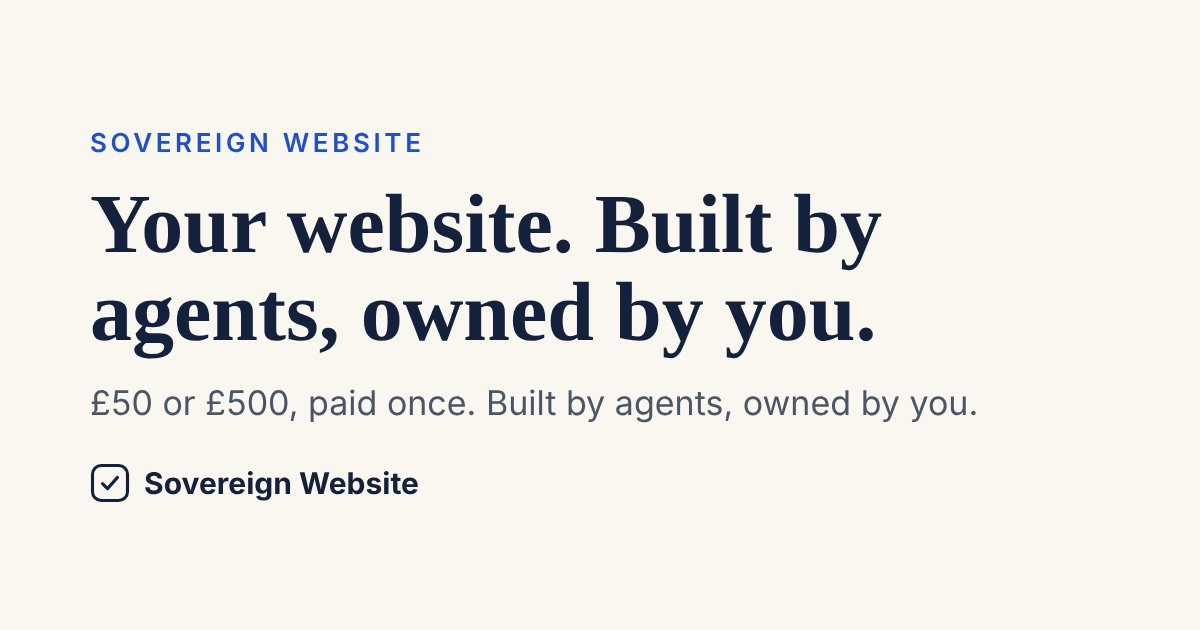
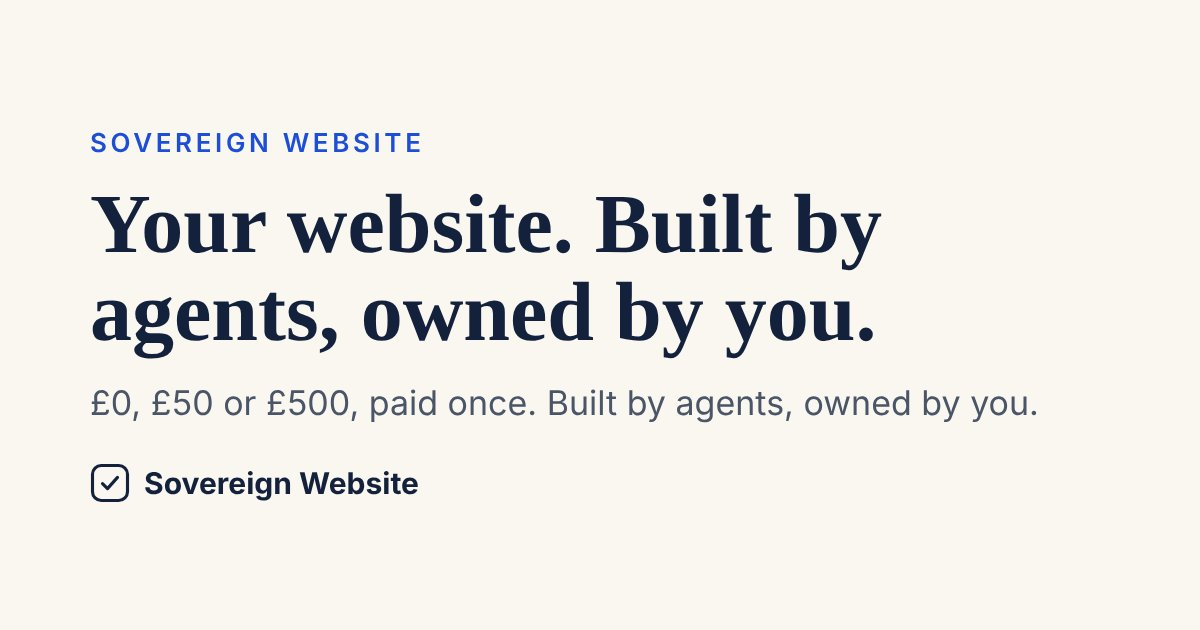
Share cards: the site card says £0, £50 or £500; the ABP kit gets its own card; the home pages get share tags
Dinis, 25 Nov: fix the ABP banner (it showed the site's card) and the site's banner should say £0, £50 or £500. New abp/og-abp.png (Agent Behaviour Policy: a starter kit for agents that keep themselves in bounds; six files, free to download), used by /abp/ and /abp/kit/. The site card regenerated. index.html and pt/index.html had no share tags; added. Keeper note: IaC PR 5 cannot be merged, passed to a.maestro. tools/check.sh: 42 pages, 0 failures.

Agent: website.a@SovereignWebsite.dinis
Claude-Session: https://claude.ai/code/session_018yvwtP1YZi2CGTZUdSyE8q

Changed region(s): [[0.0925, 0.6032, 0.8633, 0.6635]]

diff --git a/site/pt/index.html b/site/pt/index.html
@@ -7,6 +7,20 @@
 <meta name="description" content="O seu site. Construído por agentes, propriedade sua. Veja onde está hoje o seu site, do nível 0, arrendado, ao nível 5, soberano e comprovado.">
 <meta name="author" content="Dinis Cruz">
 <meta name="color-scheme" content="light dark">
+<meta property="og:title" content="Sovereign Agentic Website">
+<meta property="og:description" content="O seu site. Construído por agentes, propriedade sua. Veja onde está hoje o seu site, do nível 0, arrendado, ao nível 5, soberano e comprovado.">
+<meta property="og:url" content="https://sovereignwebsite.ai/pt/">
+<meta property="og:type" content="website">
+<meta property="og:site_name" content="Sovereign Website">
+<meta property="og:locale" content="pt_PT">
+<meta property="og:image" content="https://sovereignwebsite.ai/assets/share/card-1200x630.jpg">
+<meta property="og:image:width" content="1200">
+<meta property="og:image:height" content="630">
+<meta property="og:image:alt" content="Sovereign Website: your website, built by agents, owned by you. £0, £50 or £500, paid once.">
+<meta name="twitter:card" content="summary_large_image">
+<meta name="twitter:title" content="Sovereign Agentic Website">
+<meta name="twitter:description" content="O seu site. Construído por agentes, propriedade sua. Veja onde está hoje o seu site, do nível 0, arrendado, ao nível 5, soberano e comprovado.">
+<meta name="twitter:image" content="https://sovereignwebsite.ai/assets/share/card-1200x630.jpg">
 <link rel="icon" href="../favicon.svg" type="image/svg+xml">
 <link rel="stylesheet" href="../style.css">
 <link rel="stylesheet" href="../theme.css">

diff --git a/site/index.html b/site/index.html
@@ -7,6 +7,20 @@
 <meta name="description" content="Your website. Built by agents, owned by you. Check where your website stands today, from level 0, rented, to level 5, sovereign and proven.">
 <meta name="author" content="Dinis Cruz">
 <meta name="color-scheme" content="light dark">
+<meta property="og:title" content="Sovereign Agentic Website">
+<meta property="og:description" content="Your website. Built by agents, owned by you. Check where your website stands today, from level 0, rented, to level 5, sovereign and proven.">
+<meta property="og:url" content="https://sovereignwebsite.ai/">
+<meta property="og:type" content="website">
+<meta property="og:site_name" content="Sovereign Website">
+<meta property="og:locale" content="en_GB">
+<meta property="og:image" content="https://sovereignwebsite.ai/assets/share/card-1200x630.jpg">
+<meta property="og:image:width" content="1200">
+<meta property="og:image:height" content="630">
+<meta property="og:image:alt" content="Sovereign Website: your website, built by agents, owned by you. £0, £50 or £500, paid once.">
+<meta name="twitter:card" content="summary_large_image">
+<meta name="twitter:title" content="Sovereign Agentic Website">
+<meta name="twitter:description" content="Your website. Built by agents, owned by you. Check where your website stands today, from level 0, rented, to level 5, sovereign and proven.">
+<meta name="twitter:image" content="https://sovereignwebsite.ai/assets/share/card-1200x630.jpg">
 <link rel="icon" href="favicon.svg" type="image/svg+xml">
 <link rel="stylesheet" href="style.css">
 <link rel="stylesheet" href="theme.css">

diff --git a/site/abp/index.html b/site/abp/index.html
@@ -13,14 +13,14 @@
 <meta property="og:type" content="website">
 <meta property="og:site_name" content="Sovereign Website">
 <meta property="og:locale" content="en_GB">
-<meta property="og:image" content="https://sovereignwebsite.ai/assets/share/card-1200x630.jpg">
+<meta property="og:image" content="https://sovereignwebsite.ai/abp/og-abp.png">
 <meta property="og:image:width" content="1200">
 <meta property="og:image:height" content="630">
-<meta property="og:image:alt" content="Sovereign Website: your website, built by agents, owned by you.">
+<meta property="og:image:alt" content="Agent Behaviour Policy starter kit: six files for a team of Claude Code agents, free to download.">
 <meta name="twitter:card" content="summary_large_image">
 <meta name="twitter:title" content="Agent Behaviour Policy starter kit: Sovereign Website">
 <meta name="twitter:description" content="A starter kit for a team of Claude Code agents: add an agent that owns the behaviour policies, and a security agent.">
-<meta name="twitter:image" content="https://sovereignwebsite.ai/assets/share/card-1200x630.jpg">
+<meta name="twitter:image" content="https://sovereignwebsite.ai/abp/og-abp.png">
 <link rel="canonical" href="https://sovereignwebsite.ai/abp/">
 <link rel="icon" href="../favicon.svg" type="image/svg+xml">
 <link rel="stylesheet" href="../designs/round.css">

diff --git a/site/abp/kit/index.html b/site/abp/kit/index.html
@@ -13,14 +13,14 @@
 <meta property="og:type" content="website">
 <meta property="og:site_name" content="Sovereign Website">
 <meta property="og:locale" content="en_GB">
-<meta property="og:image" content="https://sovereignwebsite.ai/assets/share/card-1200x630.jpg">
+<meta property="og:image" content="https://sovereignwebsite.ai/abp/og-abp.png">
 <meta property="og:image:width" content="1200">
 <meta property="og:image:height" content="630">
-<meta property="og:image:alt" content="Sovereign Website: your website, built by agents, owned by you.">
+<meta property="og:image:alt" content="Agent Behaviour Policy starter kit: six files for a team of Claude Code agents, free to download.">
 <meta name="twitter:card" content="summary_large_image">
 <meta name="twitter:title" content="The kit files: Agent Behaviour Policy starter kit">
 <meta name="twitter:description" content="The files of the Agent Behaviour Policy starter kit, listed as they are prepared.">
-<meta name="twitter:image" content="https://sovereignwebsite.ai/assets/share/card-1200x630.jpg">
+<meta name="twitter:image" content="https://sovereignwebsite.ai/abp/og-abp.png">
 <link rel="canonical" href="https://sovereignwebsite.ai/abp/kit/">
 <link rel="icon" href="../../favicon.svg" type="image/svg+xml">
 <link rel="stylesheet" href="../../designs/round.css">

diff --git a/tools/build_abp.py b/tools/build_abp.py
@@ -68,14 +68,14 @@ HEAD = """<!doctype html>
 <meta property="og:type" content="website">
 <meta property="og:site_name" content="Sovereign Website">
 <meta property="og:locale" content="en_GB">
-<meta property="og:image" content="https://sovereignwebsite.ai/assets/share/card-1200x630.jpg">
+<meta property="og:image" content="https://sovereignwebsite.ai/abp/og-abp.png">
 <meta property="og:image:width" content="1200">
 <meta property="og:image:height" content="630">
-<meta property="og:image:alt" content="Sovereign Website: your website, built by agents, owned by you.">
+<meta property="og:image:alt" content="Agent Behaviour Policy starter kit: six files for a team of Claude Code agents, free to download.">
 <meta name="twitter:card" content="summary_large_image">
 <meta name="twitter:title" content="{title}">
 <meta name="twitter:description" content="{desc}">
-<meta name="twitter:image" content="https://sovereignwebsite.ai/assets/share/card-1200x630.jpg">
+<meta name="twitter:image" content="https://sovereignwebsite.ai/abp/og-abp.png">
 <link rel="canonical" href="https://sovereignwebsite.ai/{path}">
 <link rel="icon" href="{up}favicon.svg" type="image/svg+xml">
 <link rel="stylesheet" href="{up}designs/round.css">

diff --git a/tools/build_sectors.py b/tools/build_sectors.py
@@ -124,7 +124,7 @@ body{{margin:0;width:1200px;height:630px;background:#FAF7F0;color:#14213D;font-f
 h1{{font:600 84px/1.05 "Iowan Old Style",Palatino,Georgia,serif;margin:22px 0 26px;max-width:960px}}
 p{{font-size:34px;color:#4A5568;margin:0}}.b{{margin-top:40px;font-weight:700;font-size:30px;display:flex;align-items:center;gap:14px}}
 .b svg{{width:40px;height:40px}}</style></head><body>
-<div class="k">{d['kicker']}</div><h1>{d['h1']}</h1><p>&pound;50 or &pound;500, paid once. Built by agents, owned by you.</p>
+<div class="k">{d['kicker']}</div><h1>{d['h1']}</h1><p>{d.get('sub', '&pound;50 or &pound;500, paid once. Built by agents, owned by you.')}</p>
 <div class="b">{LOGO}Sovereign Website</div></body></html>'''
 
 

diff --git a/docs/keeper/now.md b/docs/keeper/now.md
@@ -18,3 +18,4 @@
 - Tools: Gmail and CRM tools "being built" only; GitHub tool built but in security review; say nothing is live that is not.
 - Hand-over notes from conductor.b (IaC 28416a8): not read, as I may not attach that repository; waiting for Dinis.
 - Pages: first deploy attempt sometimes fails (a race); retry added in ae78268.
+- IaC PR 5 cannot be merged (Dinis, 25 Nov, in my session). Not mine and IaC is not readable from here; passed to a.maestro.
